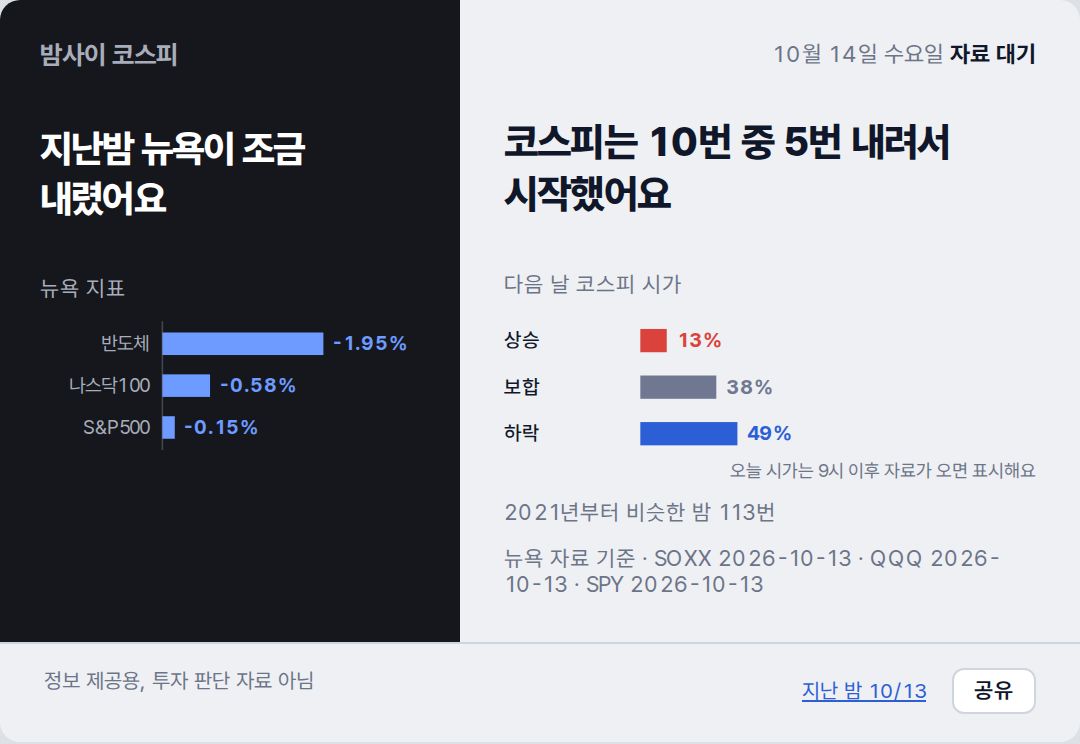
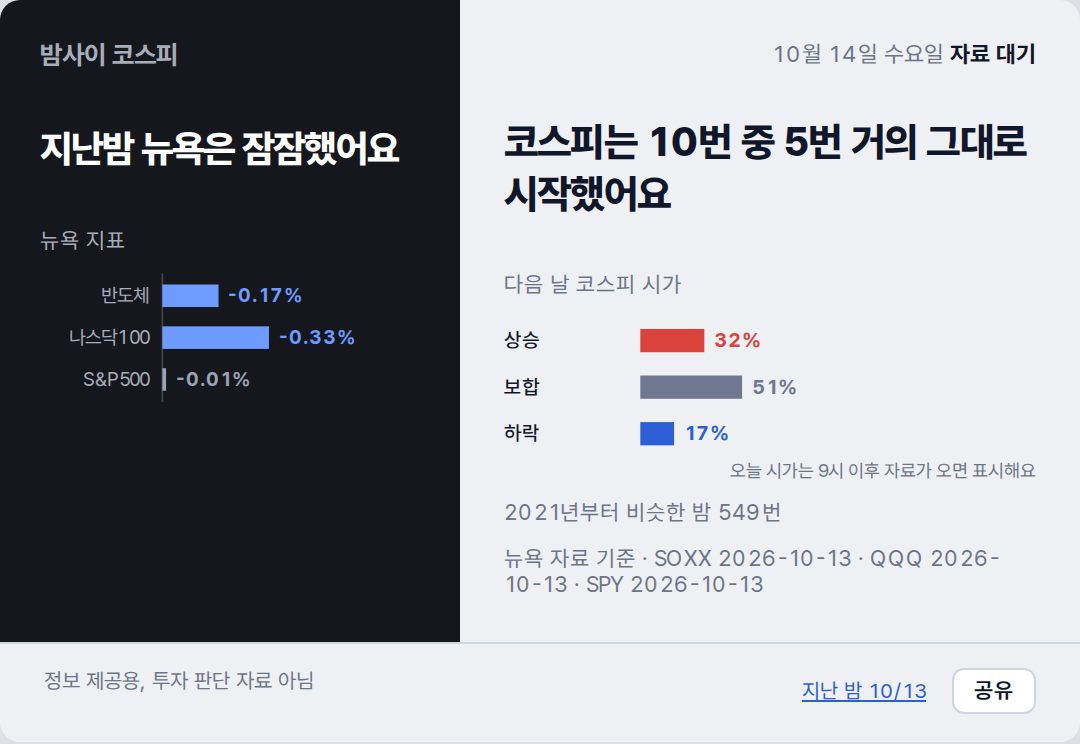
deploy: c0d07a214321b41f7cf333fef670b17ffe5b5852

diff --git a/2026-10-14/index.html b/2026-10-14/index.html
@@ -2,7 +2,7 @@
 <title>밤사이 코스피 · 2026-10-14</title>
 <meta name="description" content="전일 코스피 마감에서 밤사이 뉴욕을 거쳐 오늘 코스피 시가까지, 한 장.">
 <meta property="og:type" content="article"><meta property="og:site_name" content="밤사이 코스피"><meta property="og:url" content="https://mjs0611.github.io/kospi-relay/2026-10-14/">
-<meta property="og:title" content="지난밤 뉴욕이 조금 내렸어요"><meta property="og:description" content="코스피는 10번 중 5번 내려서 시작했어요">
+<meta property="og:title" content="지난밤 뉴욕은 잠잠했어요"><meta property="og:description" content="코스피는 10번 중 5번 거의 그대로 시작했어요">
 <meta property="og:image" content="https://mjs0611.github.io/kospi-relay/2026-10-14/relay.png"><meta property="og:image:width" content="1080"><meta name="twitter:card" content="summary_large_image">
 <link rel="stylesheet" href="https://cdn.jsdelivr.net/gh/orioncactus/pretendard@v1.3.9/dist/web/variable/pretendardvariable-dynamic-subset.min.css">
 <style>
@@ -26,35 +26,35 @@ footer a{color:#2C5FD6}
 .share{margin-left:10px;border:1px solid #CFD5DE;background:#FFF;color:#10172A;border-radius:6px;padding:4px 10px;font:600 11px var(--sans);cursor:pointer}
 @media (max-width:480px){.sheet{grid-template-columns:1fr}.cond{margin-top:18px}.claim{margin-top:4px}}
 </style></head><body><div class="sheet">
-<section class="night"><p class="brand">밤사이 코스피</p><p class="cond">지난밤 뉴욕이 조금 내렸어요</p><p class="lab">뉴욕 지표</p><svg viewBox="0 0 236 84" xmlns="http://www.w3.org/2000/svg" font-family="var(--sans)" font-size="12">
+<section class="night"><p class="brand">밤사이 코스피</p><p class="cond">지난밤 뉴욕은 잠잠했어요</p><p class="lab">뉴욕 지표</p><svg viewBox="0 0 236 84" xmlns="http://www.w3.org/2000/svg" font-family="var(--sans)" font-size="12">
 <line x1="76" y1="2" x2="76" y2="82" stroke="var(--rule)" stroke-width="1"/>
 <text x="68" y="20" text-anchor="end" fill="var(--muted)">반도체</text>
-<rect x="76" y="9" width="100.0" height="14" fill="var(--down)"/>
-<text x="182.0" y="20" fill="var(--down)" font-weight="700">-1.95%</text>
+<rect x="76" y="9" width="34.9" height="14" fill="var(--down)"/>
+<text x="116.9" y="20" fill="var(--down)" font-weight="700">-0.17%</text>
 <text x="68" y="46" text-anchor="end" fill="var(--muted)">나스닥100</text>
-<rect x="76" y="35" width="29.6" height="14" fill="var(--down)"/>
-<text x="111.6" y="46" fill="var(--down)" font-weight="700">-0.58%</text>
+<rect x="76" y="35" width="66.2" height="14" fill="var(--down)"/>
+<text x="148.2" y="46" fill="var(--down)" font-weight="700">-0.33%</text>
 <text x="68" y="72" text-anchor="end" fill="var(--muted)">S&P500</text>
-<rect x="76" y="61" width="7.7" height="14" fill="var(--down)"/>
-<text x="89.7" y="72" fill="var(--down)" font-weight="700">-0.15%</text>
+<rect x="76" y="61" width="2.3" height="14" fill="var(--flat)"/>
+<text x="84.3" y="72" fill="var(--flat)" font-weight="700">-0.01%</text>
 </svg></section>
-<section class="day"><p class="stamp">10월 14일 수요일 <b>자료 대기</b></p><p class="claim">코스피는 10번 중 5번 내려서 시작했어요</p><p class="lab">다음 날 코스피 시가</p><svg viewBox="0 0 320 100" xmlns="http://www.w3.org/2000/svg" font-family="var(--sans)" font-size="12">
+<section class="day"><p class="stamp">10월 14일 수요일 <b>자료 대기</b></p><p class="claim">코스피는 10번 중 5번 거의 그대로 시작했어요</p><p class="lab">다음 날 코스피 시가</p><svg viewBox="0 0 320 100" xmlns="http://www.w3.org/2000/svg" font-family="var(--sans)" font-size="12">
 <text x="0" y="20" fill="var(--ink)" font-weight="500">상승</text>
-<rect x="82" y="9" width="15.9" height="14" fill="var(--up)"/>
-<text x="103.9" y="20" fill="var(--up)" font-weight="700">13%</text>
+<rect x="82" y="9" width="38.5" height="14" fill="var(--up)"/>
+<text x="126.5" y="20" fill="var(--up)" font-weight="700">32%</text>
 <text x="0" y="48" fill="var(--ink)" font-weight="500">보합</text>
-<rect x="82" y="37" width="45.7" height="14" fill="var(--flat)"/>
-<text x="133.7" y="48" fill="var(--flat)" font-weight="700">38%</text>
+<rect x="82" y="37" width="61.2" height="14" fill="var(--flat)"/>
+<text x="149.2" y="48" fill="var(--flat)" font-weight="700">51%</text>
 <text x="0" y="76" fill="var(--ink)" font-weight="500">하락</text>
-<rect x="82" y="65" width="58.4" height="14" fill="var(--down)"/>
-<text x="146.4" y="76" fill="var(--down)" font-weight="700">49%</text>
+<rect x="82" y="65" width="20.3" height="14" fill="var(--down)"/>
+<text x="108.3" y="76" fill="var(--down)" font-weight="700">17%</text>
 <text x="320" y="98" text-anchor="end" fill="var(--muted)" font-size="11">오늘 시가는 9시 이후 자료가 오면 표시해요</text>
-</svg><p class="cap">2021년부터 비슷한 밤 113번</p><p class="cap">뉴욕 자료 기준 · SOXX 2026-10-13 · QQQ 2026-10-13 · SPY 2026-10-13</p></section>
+</svg><p class="cap">2021년부터 비슷한 밤 549번</p><p class="cap">뉴욕 자료 기준 · SOXX 2026-10-13 · QQQ 2026-10-13 · SPY 2026-10-13</p></section>
 <footer><span>정보 제공용, 투자 판단 자료 아님</span><span style="white-space:nowrap"><a href="../2026-10-13/">지난 밤 10/13</a> <button class="share" type="button">공유</button></span></footer>
 <script>
 /* 공유: Web Share가 있으면 시스템 공유 시트, 없으면 링크 복사. 링크는 이 날짜 페이지(OG 카드 붙음) */
 document.querySelector('.share').addEventListener('click', async function () {
-  var url = 'https://mjs0611.github.io/kospi-relay/2026-10-14/', text = "지난밤 뉴욕이 조금 내렸어요. 코스피는 10번 중 5번 내려서 시작했어요";
+  var url = 'https://mjs0611.github.io/kospi-relay/2026-10-14/', text = "지난밤 뉴욕은 잠잠했어요. 코스피는 10번 중 5번 거의 그대로 시작했어요";
   try { if (navigator.share) { await navigator.share({ title: '밤사이 코스피', text: text, url: url }); return; } } catch (e) { if (e && e.name === 'AbortError') return; }
   try { await navigator.clipboard.writeText(text + '\n' + url); this.textContent = '링크 복사됨'; } catch (e) { location.href = url; }
 });

diff --git a/index.html b/index.html
@@ -2,7 +2,7 @@
 <title>밤사이 코스피 · 2026-10-14</title>
 <meta name="description" content="전일 코스피 마감에서 밤사이 뉴욕을 거쳐 오늘 코스피 시가까지, 한 장.">
 <meta property="og:type" content="article"><meta property="og:site_name" content="밤사이 코스피"><meta property="og:url" content="https://mjs0611.github.io/kospi-relay/2026-10-14/">
-<meta property="og:title" content="지난밤 뉴욕이 조금 내렸어요"><meta property="og:description" content="코스피는 10번 중 5번 내려서 시작했어요">
+<meta property="og:title" content="지난밤 뉴욕은 잠잠했어요"><meta property="og:description" content="코스피는 10번 중 5번 거의 그대로 시작했어요">
 <meta property="og:image" content="https://mjs0611.github.io/kospi-relay/2026-10-14/relay.png"><meta property="og:image:width" content="1080"><meta name="twitter:card" content="summary_large_image">
 <link rel="stylesheet" href="https://cdn.jsdelivr.net/gh/orioncactus/pretendard@v1.3.9/dist/web/variable/pretendardvariable-dynamic-subset.min.css">
 <style>
@@ -26,35 +26,35 @@ footer a{color:#2C5FD6}
 .share{margin-left:10px;border:1px solid #CFD5DE;background:#FFF;color:#10172A;border-radius:6px;padding:4px 10px;font:600 11px var(--sans);cursor:pointer}
 @media (max-width:480px){.sheet{grid-template-columns:1fr}.cond{margin-top:18px}.claim{margin-top:4px}}
 </style></head><body><div class="sheet">
-<section class="night"><p class="brand">밤사이 코스피</p><p class="cond">지난밤 뉴욕이 조금 내렸어요</p><p class="lab">뉴욕 지표</p><svg viewBox="0 0 236 84" xmlns="http://www.w3.org/2000/svg" font-family="var(--sans)" font-size="12">
+<section class="night"><p class="brand">밤사이 코스피</p><p class="cond">지난밤 뉴욕은 잠잠했어요</p><p class="lab">뉴욕 지표</p><svg viewBox="0 0 236 84" xmlns="http://www.w3.org/2000/svg" font-family="var(--sans)" font-size="12">
 <line x1="76" y1="2" x2="76" y2="82" stroke="var(--rule)" stroke-width="1"/>
 <text x="68" y="20" text-anchor="end" fill="var(--muted)">반도체</text>
-<rect x="76" y="9" width="100.0" height="14" fill="var(--down)"/>
-<text x="182.0" y="20" fill="var(--down)" font-weight="700">-1.95%</text>
+<rect x="76" y="9" width="34.9" height="14" fill="var(--down)"/>
+<text x="116.9" y="20" fill="var(--down)" font-weight="700">-0.17%</text>
 <text x="68" y="46" text-anchor="end" fill="var(--muted)">나스닥100</text>
-<rect x="76" y="35" width="29.6" height="14" fill="var(--down)"/>
-<text x="111.6" y="46" fill="var(--down)" font-weight="700">-0.58%</text>
+<rect x="76" y="35" width="66.2" height="14" fill="var(--down)"/>
+<text x="148.2" y="46" fill="var(--down)" font-weight="700">-0.33%</text>
 <text x="68" y="72" text-anchor="end" fill="var(--muted)">S&P500</text>
-<rect x="76" y="61" width="7.7" height="14" fill="var(--down)"/>
-<text x="89.7" y="72" fill="var(--down)" font-weight="700">-0.15%</text>
+<rect x="76" y="61" width="2.3" height="14" fill="var(--flat)"/>
+<text x="84.3" y="72" fill="var(--flat)" font-weight="700">-0.01%</text>
 </svg></section>
-<section class="day"><p class="stamp">10월 14일 수요일 <b>자료 대기</b></p><p class="claim">코스피는 10번 중 5번 내려서 시작했어요</p><p class="lab">다음 날 코스피 시가</p><svg viewBox="0 0 320 100" xmlns="http://www.w3.org/2000/svg" font-family="var(--sans)" font-size="12">
+<section class="day"><p class="stamp">10월 14일 수요일 <b>자료 대기</b></p><p class="claim">코스피는 10번 중 5번 거의 그대로 시작했어요</p><p class="lab">다음 날 코스피 시가</p><svg viewBox="0 0 320 100" xmlns="http://www.w3.org/2000/svg" font-family="var(--sans)" font-size="12">
 <text x="0" y="20" fill="var(--ink)" font-weight="500">상승</text>
-<rect x="82" y="9" width="15.9" height="14" fill="var(--up)"/>
-<text x="103.9" y="20" fill="var(--up)" font-weight="700">13%</text>
+<rect x="82" y="9" width="38.5" height="14" fill="var(--up)"/>
+<text x="126.5" y="20" fill="var(--up)" font-weight="700">32%</text>
 <text x="0" y="48" fill="var(--ink)" font-weight="500">보합</text>
-<rect x="82" y="37" width="45.7" height="14" fill="var(--flat)"/>
-<text x="133.7" y="48" fill="var(--flat)" font-weight="700">38%</text>
+<rect x="82" y="37" width="61.2" height="14" fill="var(--flat)"/>
+<text x="149.2" y="48" fill="var(--flat)" font-weight="700">51%</text>
 <text x="0" y="76" fill="var(--ink)" font-weight="500">하락</text>
-<rect x="82" y="65" width="58.4" height="14" fill="var(--down)"/>
-<text x="146.4" y="76" fill="var(--down)" font-weight="700">49%</text>
+<rect x="82" y="65" width="20.3" height="14" fill="var(--down)"/>
+<text x="108.3" y="76" fill="var(--down)" font-weight="700">17%</text>
 <text x="320" y="98" text-anchor="end" fill="var(--muted)" font-size="11">오늘 시가는 9시 이후 자료가 오면 표시해요</text>
-</svg><p class="cap">2021년부터 비슷한 밤 113번</p><p class="cap">뉴욕 자료 기준 · SOXX 2026-10-13 · QQQ 2026-10-13 · SPY 2026-10-13</p></section>
+</svg><p class="cap">2021년부터 비슷한 밤 549번</p><p class="cap">뉴욕 자료 기준 · SOXX 2026-10-13 · QQQ 2026-10-13 · SPY 2026-10-13</p></section>
 <footer><span>정보 제공용, 투자 판단 자료 아님</span><span style="white-space:nowrap"><a href="./2026-10-13/">지난 밤 10/13</a> <button class="share" type="button">공유</button></span></footer>
 <script>
 /* 공유: Web Share가 있으면 시스템 공유 시트, 없으면 링크 복사. 링크는 이 날짜 페이지(OG 카드 붙음) */
 document.querySelector('.share').addEventListener('click', async function () {
-  var url = 'https://mjs0611.github.io/kospi-relay/2026-10-14/', text = "지난밤 뉴욕이 조금 내렸어요. 코스피는 10번 중 5번 내려서 시작했어요";
+  var url = 'https://mjs0611.github.io/kospi-relay/2026-10-14/', text = "지난밤 뉴욕은 잠잠했어요. 코스피는 10번 중 5번 거의 그대로 시작했어요";
   try { if (navigator.share) { await navigator.share({ title: '밤사이 코스피', text: text, url: url }); return; } } catch (e) { if (e && e.name === 'AbortError') return; }
   try { await navigator.clipboard.writeText(text + '\n' + url); this.textContent = '링크 복사됨'; } catch (e) { location.href = url; }
 });
